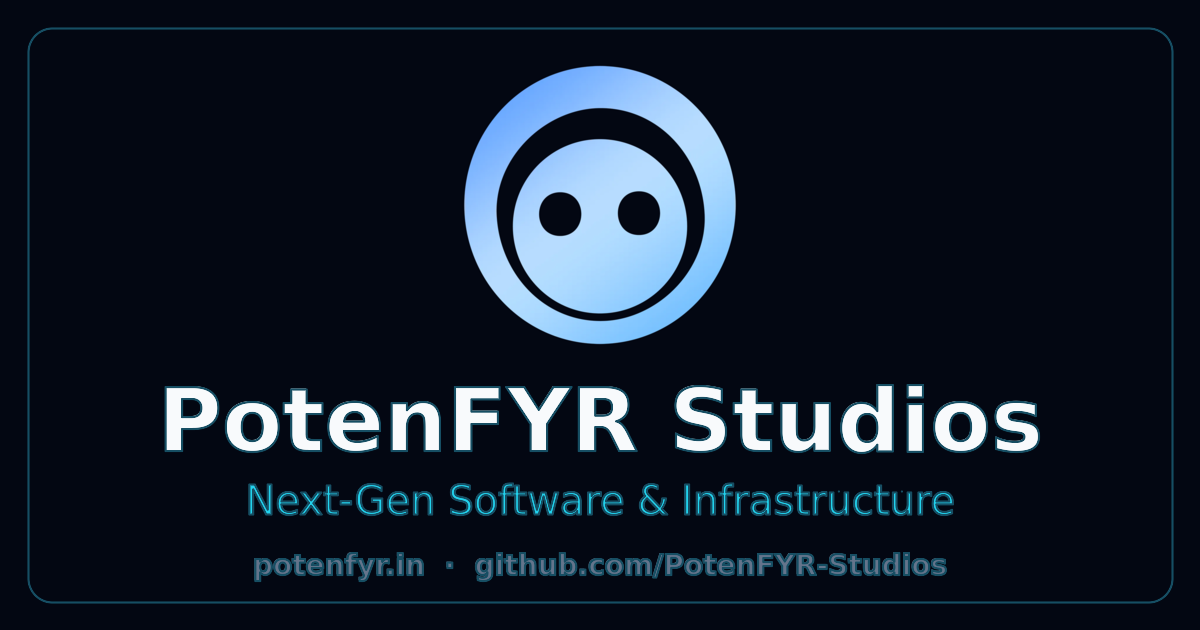
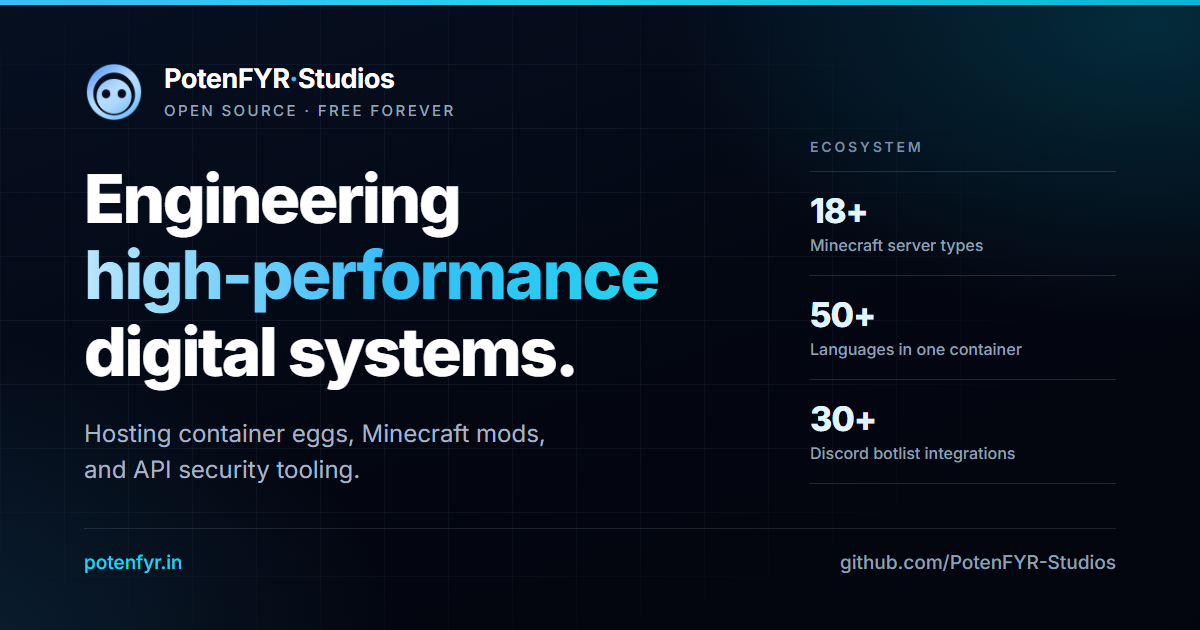
feat(site): rebuild the OG link preview, tighten head metadata, add Clarity
The shared link preview was a flat black card (generic Arial type, three
mismatched blues, an unreadable URL line, ~60% empty canvas) shipped as a
16-bit RGBA PNG. Replaced with a brand-matched 1200x630 card: logo lockup,
gradient headline, ecosystem stat rail, edge-to-edge masked grid. 8-bit RGB.

- add scripts/og/card.html + scripts/og/build-og.mjs and `bun run og:image`;
  renders through a locally discovered Chrome/Chromium, so the build keeps
  needing no browser
- unify title/description across <title>, og:* and twitter:* (the three had
  drifted apart); trim the description from 217 to 147 chars
- add og:image:type, og:image:secure_url and hreflang en + x-default
- drop the invalid JSON-LD SearchAction (it targeted a hash URL, which no
  crawler can use) and add a WebPage node, Organization.image/logo
  dimensions and a contactPoint
- stamp the sitemap lastmod with the build date in resolve-domain.ts instead
  of leaving a hardcoded date to go stale
- fix scripts/prerender.ts reading dist/index.html via
  decodeURIComponent(url.pathname), which yields /D:/... on Windows and fails
  the build; CI on Linux never hit it
- add Microsoft Clarity (yqd6hx1k71) to index.html and 404.html

Verified: bun run typecheck && bun run lint && bun run build; served dist and
re-checked the rendered head, og.png (1200x630, image/png) and live Clarity
tag/beacon requests in a real browser.

diff --git a/index.html b/index.html
@@ -2,19 +2,21 @@
 <html lang="en" class="dark scroll-smooth">
   <head>
     <meta charset="UTF-8" />
-    <link rel="icon" type="image/png" href="./favicon.png" />
-    <link rel="apple-touch-icon" href="./favicon.png" />
+    <link rel="icon" type="image/png" sizes="512x512" href="./favicon.png" />
+    <link rel="apple-touch-icon" sizes="512x512" href="./favicon.png" />
     <meta name="viewport" content="width=device-width, initial-scale=1.0" />
     <meta name="theme-color" content="#030712" />
 
     <!-- Canonical & Sitemap URLs (self-references are rewritten to the active domain at build time) -->
     <link rel="canonical" href="https://potenfyr.in/" />
+    <link rel="alternate" href="https://potenfyr.in/" hreflang="en" />
+    <link rel="alternate" href="https://potenfyr.in/" hreflang="x-default" />
     <link rel="sitemap" type="application/xml" title="Sitemap" href="./sitemap.xml" />
 
     <!-- Search Engine Indexing & Robots -->
     <title>PotenFYR Studios | Next-Gen Software & Infrastructure</title>
     <meta name="title" content="PotenFYR Studios | Next-Gen Software & Infrastructure" />
-    <meta name="description" content="PotenFYR Studios is a high-performance software engineering organization crafting universal hosting container eggs, Fabric and Spigot Minecraft mods, automated API defense tooling, and scalable developer infrastructure." />
+    <meta name="description" content="PotenFYR Studios builds open-source hosting container eggs for Minecraft and 50+ languages, Minecraft mods, and PR-native API security tooling." />
     <meta name="keywords" content="PotenFYR Studios, PotenFYR, Minecraft mods, Fabric mods, AuthCore, Statfyr, Minecraft-Eggs, Prog-Language-Eggs, Database-Eggs, APICordon, Pterodactyl egg, Pelican panel egg, Feather panel egg, Spigot plugins, Discord bots, open source software" />
     <meta name="author" content="PotenFYR Studios" />
     <meta name="publisher" content="PotenFYR Studios" />
@@ -33,25 +35,37 @@
     <meta property="og:url" content="https://potenfyr.in/" />
     <meta property="og:site_name" content="PotenFYR Studios" />
     <meta property="og:title" content="PotenFYR Studios | Next-Gen Software & Infrastructure" />
-    <meta property="og:description" content="High-performance open-source software, universal hosting container eggs (18+ Minecraft types, 50+ languages), Fabric & Spigot mods, and API defense." />
+    <meta property="og:description" content="PotenFYR Studios builds open-source hosting container eggs for Minecraft and 50+ languages, Minecraft mods, and PR-native API security tooling." />
     <meta property="og:image" content="https://potenfyr.in/og.png" />
-    <meta property="og:image:alt" content="PotenFYR Studios: Next-Gen Software & Infrastructure" />
+    <meta property="og:image:secure_url" content="https://potenfyr.in/og.png" />
+    <meta property="og:image:type" content="image/png" />
     <meta property="og:image:width" content="1200" />
     <meta property="og:image:height" content="630" />
+    <meta property="og:image:alt" content="PotenFYR Studios: engineering high-performance digital systems" />
     <meta property="og:locale" content="en_US" />
 
     <!-- Twitter Card Embeds -->
     <meta name="twitter:card" content="summary_large_image" />
     <meta name="twitter:url" content="https://potenfyr.in/" />
-    <meta name="twitter:title" content="PotenFYR Studios | Software Engineering & Infrastructure" />
-    <meta name="twitter:description" content="Engineering high-performance digital systems, Minecraft tools, universal hosting eggs, and developer infrastructure." />
+    <meta name="twitter:title" content="PotenFYR Studios | Next-Gen Software & Infrastructure" />
+    <meta name="twitter:description" content="PotenFYR Studios builds open-source hosting container eggs for Minecraft and 50+ languages, Minecraft mods, and PR-native API security tooling." />
     <meta name="twitter:image" content="https://potenfyr.in/og.png" />
-    <meta name="twitter:image:alt" content="PotenFYR Studios: Next-Gen Software & Infrastructure" />
+    <meta name="twitter:image:alt" content="PotenFYR Studios: engineering high-performance digital systems" />
 
     <!-- Performance: Preconnect to Font CDNs -->
     <link rel="preconnect" href="https://fonts.googleapis.com">
     <link rel="preconnect" href="https://fonts.gstatic.com" crossorigin>
+    <link rel="preconnect" href="https://www.clarity.ms">
     <link href="https://fonts.googleapis.com/css2?family=Fira+Code:wght@400;500;600&family=Inter:wght@300;400;500;600;700;800&family=Plus+Jakarta+Sans:wght@400;500;600;700;800&display=swap" rel="stylesheet">
+
+    <!-- Microsoft Clarity: session replays and heatmaps -->
+    <script type="text/javascript">
+      (function(c,l,a,r,i,t,y){
+          c[a]=c[a]||function(){(c[a].q=c[a].q||[]).push(arguments)};
+          t=l.createElement(r);t.async=1;t.src="https://www.clarity.ms/tag/"+i;
+          y=l.getElementsByTagName(r)[0];y.parentNode.insertBefore(t,y);
+      })(window, document, "clarity", "script", "yqd6hx1k71");
+    </script>
 
     <!-- JSON-LD Structured Data Schema for Search Engines -->
     <script type="application/ld+json">
@@ -67,10 +81,26 @@
           "logo": {
             "@type": "ImageObject",
             "url": "https://potenfyr.in/favicon.png",
+            "width": 512,
+            "height": 512,
             "caption": "PotenFYR Studios Logo"
+          },
+          "image": {
+            "@type": "ImageObject",
+            "url": "https://potenfyr.in/og.png",
+            "width": 1200,
+            "height": 630,
+            "caption": "PotenFYR Studios: engineering high-performance digital systems"
           },
           "description": "PotenFYR Studios is a creative engineering organization crafting universal game server hosting containers, Fabric and Spigot Minecraft mods, automated API defense tooling, and high-concurrency developer infrastructure.",
           "email": "support@potenfyr.in",
+          "contactPoint": {
+            "@type": "ContactPoint",
+            "contactType": "customer support",
+            "email": "support@potenfyr.in",
+            "url": "https://github.com/PotenFYR-Studios",
+            "availableLanguage": "en"
+          },
           "sameAs": [
             "https://github.com/PotenFYR-Studios",
             "https://modrinth.com/organization/potenfyr",
@@ -83,14 +113,29 @@
           "@id": "https://potenfyr.in/#website",
           "url": "https://potenfyr.in/",
           "name": "PotenFYR Studios",
+          "inLanguage": "en",
           "publisher": {
             "@id": "https://potenfyr.in/#organization"
-          },
-          "potentialAction": {
-            "@type": "SearchAction",
-            "target": "https://potenfyr.in/#projects?q={search_term_string}",
-            "query-input": "required name=search_term_string"
           }
+        },
+        {
+          "@type": "WebPage",
+          "@id": "https://potenfyr.in/#webpage",
+          "url": "https://potenfyr.in/",
+          "name": "PotenFYR Studios | Next-Gen Software & Infrastructure",
+          "isPartOf": {
+            "@id": "https://potenfyr.in/#website"
+          },
+          "about": {
+            "@id": "https://potenfyr.in/#organization"
+          },
+          "primaryImageOfPage": {
+            "@type": "ImageObject",
+            "url": "https://potenfyr.in/og.png",
+            "width": 1200,
+            "height": 630
+          },
+          "inLanguage": "en"
         },
         {
           "@type": "SoftwareApplication",

diff --git a/scripts/og/card.html b/scripts/og/card.html
@@ -1,0 +1,212 @@
+<!doctype html>
+<html lang="en">
+  <head>
+    <meta charset="utf-8" />
+    <title>PotenFYR Studios link preview</title>
+    <link rel="preconnect" href="https://fonts.googleapis.com" />
+    <link rel="preconnect" href="https://fonts.gstatic.com" crossorigin />
+    <link
+      href="https://fonts.googleapis.com/css2?family=Inter:wght@400;500;600;700;800&display=swap"
+      rel="stylesheet"
+    />
+    <style>
+      * { box-sizing: border-box; margin: 0; padding: 0; }
+      html, body { width: 1200px; height: 630px; overflow: hidden; }
+      body {
+        font-family: 'Inter', 'Segoe UI', system-ui, sans-serif;
+        background: #030712;
+        color: #fff;
+        -webkit-font-smoothing: antialiased;
+      }
+
+      .card {
+        position: relative;
+        width: 1200px;
+        height: 630px;
+        padding: 62px 84px 56px;
+        display: flex;
+        flex-direction: column;
+        background:
+          radial-gradient(760px 460px at 96% 4%, rgba(6, 182, 212, 0.20), transparent 64%),
+          radial-gradient(760px 520px at -6% 104%, rgba(56, 189, 248, 0.14), transparent 62%),
+          linear-gradient(160deg, #061021 0%, #030712 52%, #03050d 100%);
+        overflow: hidden;
+      }
+
+      /* Full-bleed blueprint grid, radially masked so it never shows an orphan seam */
+      .grid {
+        position: absolute;
+        inset: 0;
+        background-image:
+          linear-gradient(to right, rgba(148, 163, 184, 0.10) 1px, transparent 1px),
+          linear-gradient(to bottom, rgba(148, 163, 184, 0.10) 1px, transparent 1px);
+        background-size: 64px 64px;
+        -webkit-mask-image: radial-gradient(760px 430px at 34% 48%, #000 0%, rgba(0, 0, 0, 0.55) 58%, transparent 88%);
+        mask-image: radial-gradient(760px 430px at 34% 48%, #000 0%, rgba(0, 0, 0, 0.55) 58%, transparent 88%);
+      }
+
+      /* One accent, one direction: brand signal that survives a centre crop */
+      .edge {
+        position: absolute;
+        top: 0; left: 0; right: 0;
+        height: 5px;
+        background: linear-gradient(90deg, #38bdf8 0%, #22d3ee 46%, #06b6d4 100%);
+      }
+
+      .content {
+        position: relative;
+        z-index: 2;
+        display: flex;
+        flex-direction: column;
+        height: 100%;
+      }
+
+      .lockup { display: flex; align-items: center; gap: 20px; }
+      .lockup img { width: 60px; height: 60px; display: block; }
+      .lockup .name {
+        font-size: 27px;
+        font-weight: 700;
+        letter-spacing: -0.02em;
+        line-height: 1.1;
+      }
+      .lockup .name em { font-style: normal; color: #38bdf8; }
+      .lockup .sub {
+        margin-top: 7px;
+        font-size: 15px;
+        font-weight: 500;
+        letter-spacing: 0.16em;
+        text-transform: uppercase;
+        color: #94a3b8;
+      }
+
+      .body {
+        margin-top: auto;
+        display: flex;
+        align-items: flex-end;
+        justify-content: space-between;
+        gap: 56px;
+      }
+
+      .copy { max-width: 700px; }
+
+      h1 {
+        font-size: 67px;
+        line-height: 1.14;
+        font-weight: 800;
+        letter-spacing: -0.035em;
+      }
+      h1 .grad {
+        background: linear-gradient(96deg, #bae6fd 0%, #38bdf8 52%, #22d3ee 100%);
+        -webkit-background-clip: text;
+        background-clip: text;
+        -webkit-text-fill-color: transparent;
+      }
+
+      p.lede {
+        margin-top: 26px;
+        font-size: 24px;
+        line-height: 1.5;
+        color: #a8b4c6;
+        max-width: none;
+      }
+
+      .stats {
+        display: flex;
+        flex-direction: column;
+        min-width: 306px;
+        padding-bottom: 4px;
+      }
+      .stats .eyebrow {
+        font-size: 14px;
+        font-weight: 600;
+        letter-spacing: 0.2em;
+        text-transform: uppercase;
+        color: #7c8ba1;
+        padding-bottom: 16px;
+      }
+      .stat {
+        border-top: 1px solid rgba(148, 163, 184, 0.22);
+        padding: 18px 0 20px;
+      }
+      .stat.last { border-bottom: 1px solid rgba(148, 163, 184, 0.22); }
+      .stat b {
+        display: block;
+        font-size: 34px;
+        font-weight: 800;
+        letter-spacing: -0.03em;
+        color: #e2f4ff;
+      }
+      .stat span {
+        display: block;
+        margin-top: 4px;
+        font-size: 16px;
+        font-weight: 500;
+        color: #8fa0b6;
+      }
+
+      .foot {
+        margin-top: 40px;
+        display: flex;
+        align-items: center;
+        justify-content: space-between;
+        border-top: 1px solid rgba(148, 163, 184, 0.18);
+        padding-top: 22px;
+        font-size: 19px;
+        font-weight: 500;
+      }
+      .foot .domain { color: #22d3ee; }
+      .foot .repo { color: #8fa0b6; }
+    </style>
+  </head>
+  <body>
+    <div class="card">
+      <div class="grid"></div>
+      <div class="edge"></div>
+
+      <div class="content">
+        <div class="lockup">
+          <img src="../../public/favicon.png" alt="" />
+          <div>
+            <div class="name">PotenFYR<em>·</em>Studios</div>
+            <div class="sub">Open source · free forever</div>
+          </div>
+        </div>
+
+        <div class="body">
+          <div class="copy">
+            <h1>
+              Engineering<br />
+              <span class="grad">high-performance</span><br />
+              digital systems.
+            </h1>
+            <p class="lede">
+              Hosting container eggs, Minecraft mods,<br />
+              and API security tooling.
+            </p>
+          </div>
+
+          <div class="stats">
+            <div class="eyebrow">Ecosystem</div>
+            <div class="stat">
+              <b>18+</b>
+              <span>Minecraft server types</span>
+            </div>
+            <div class="stat">
+              <b>50+</b>
+              <span>Languages in one container</span>
+            </div>
+            <div class="stat last">
+              <b>30+</b>
+              <span>Discord botlist integrations</span>
+            </div>
+          </div>
+        </div>
+
+        <div class="foot">
+          <div class="domain">potenfyr.in</div>
+          <div class="repo">github.com/PotenFYR-Studios</div>
+        </div>
+      </div>
+    </div>
+  </body>
+</html>

diff --git a/scripts/resolve-domain.ts b/scripts/resolve-domain.ts
@@ -111,7 +111,19 @@ async function main() {
     rewritten++;
   }
 
-  // 2. Lock the custom domain: GitHub Pages branch publishing derives the domain from
+  // 2. Stamp the sitemap with the real build date so `lastmod` never goes stale.
+  const sitemapPath = resolve(DIST_DIR, 'sitemap.xml');
+  if (existsSync(sitemapPath)) {
+    const today = new Date().toISOString().slice(0, 10);
+    const stamped = readFileSync(sitemapPath, 'utf-8').replace(
+      /<lastmod>[^<]*<\/lastmod>/g,
+      `<lastmod>${today}</lastmod>`,
+    );
+    writeFileSync(sitemapPath, stamped, 'utf-8');
+    console.log(`[Domain] Sitemap lastmod stamped ${today}.`);
+  }
+
+  // 3. Lock the custom domain: GitHub Pages branch publishing derives the domain from
   //    the CNAME file, so a deploy without it clears the Settings -> Pages entry.
   const cnamePath = resolve(DIST_DIR, 'CNAME');
   if (isCustom) {

diff --git a/public/404.html b/public/404.html
@@ -7,6 +7,13 @@
     <title>Page not found | PotenFYR Studios</title>
     <meta name="description" content="This PotenFYR Studios page could not be found. Head to the studio home page, the GitHub organization, or the community Discord." />
     <link rel="icon" type="image/png" href="./favicon.png" />
+    <script type="text/javascript">
+      (function(c,l,a,r,i,t,y){
+          c[a]=c[a]||function(){(c[a].q=c[a].q||[]).push(arguments)};
+          t=l.createElement(r);t.async=1;t.src="https://www.clarity.ms/tag/"+i;
+          y=l.getElementsByTagName(r)[0];y.parentNode.insertBefore(t,y);
+      })(window, document, "clarity", "script", "yqd6hx1k71");
+    </script>
     <style>
       :root { color-scheme: dark; }
       * { box-sizing: border-box; }

diff --git a/scripts/prerender.ts b/scripts/prerender.ts
@@ -7,6 +7,7 @@
 import { createServer } from "vite";
 import { renderToString } from "react-dom/server";
 import { readFile, writeFile } from "node:fs/promises";
+import { fileURLToPath } from "node:url";
 import React from "react";
 
 const vite = await createServer({
@@ -28,7 +29,7 @@ try {
   const html = renderToString(React.createElement(React.StrictMode, null, React.createElement(App)));
   await vite.close();
 
-  const dist = decodeURIComponent(new URL("../dist/index.html", import.meta.url).pathname);
+  const dist = fileURLToPath(new URL("../dist/index.html", import.meta.url));
   const file = await readFile(dist, "utf8");
   if (!file.includes('<div id="root"></div>')) {
     throw new Error("root div placeholder not found in dist/index.html");
